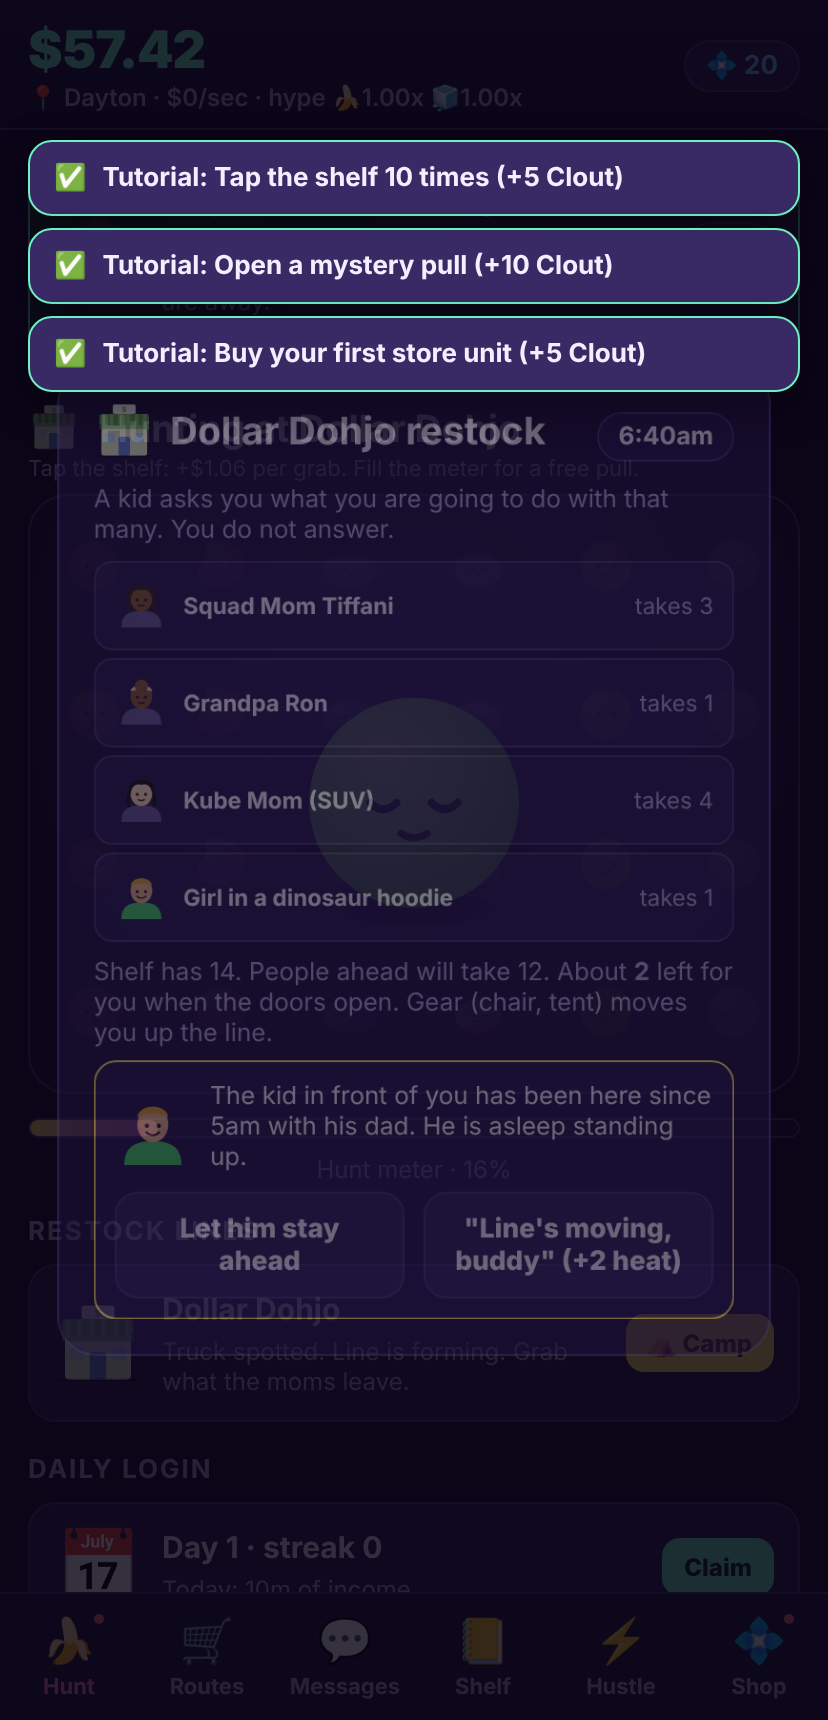
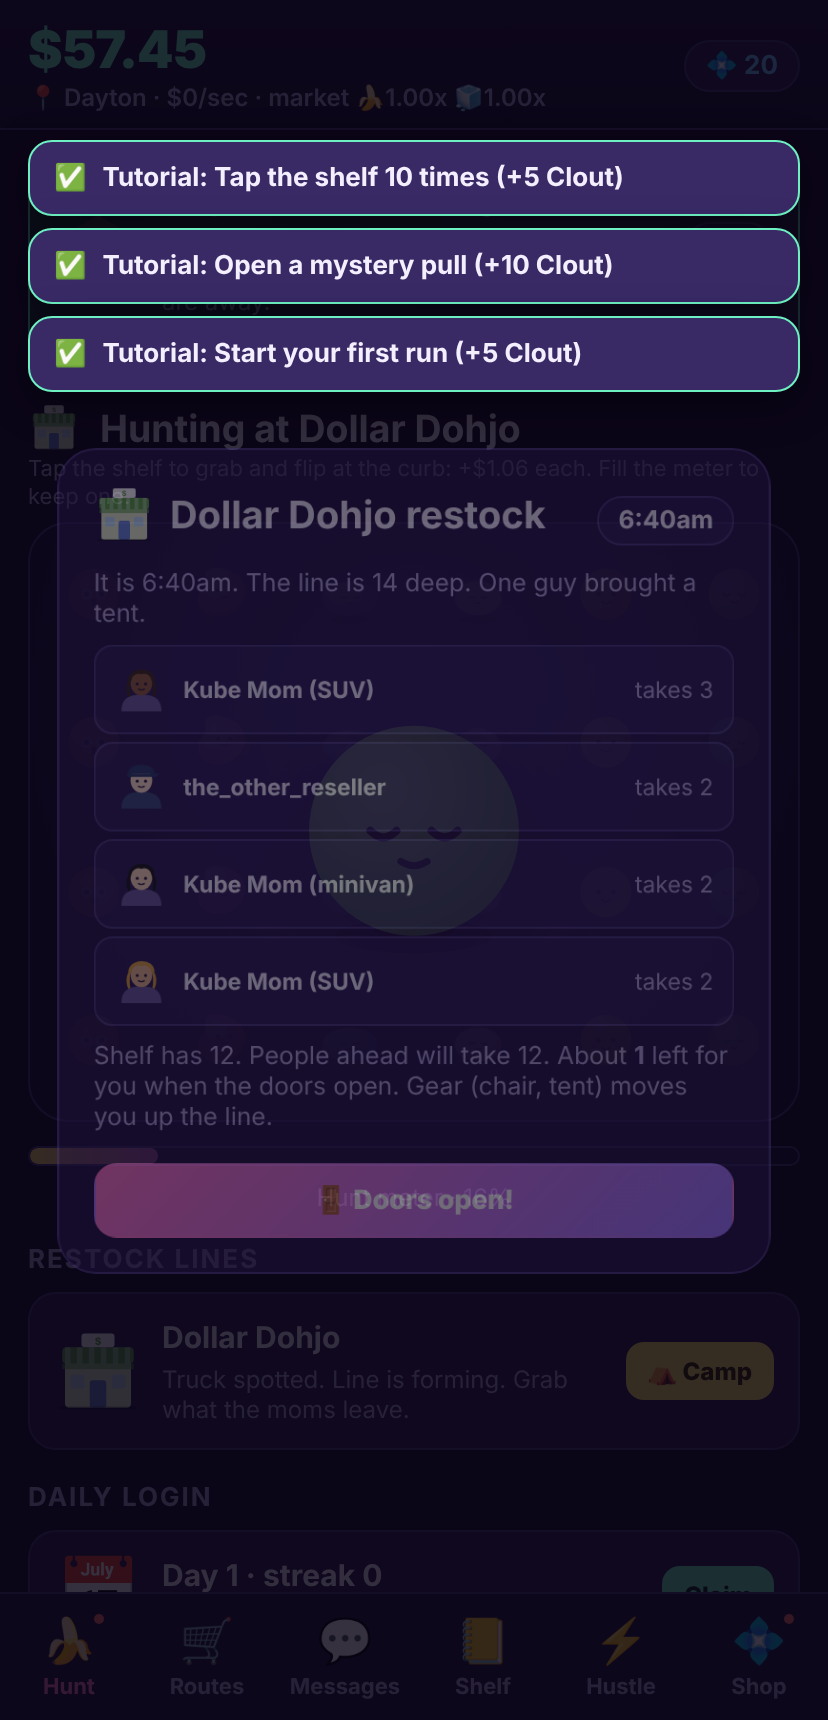
Scalping Squishies: make automatic cash legible (runs, flip math, phases)
Store units are now runs: one buy-and-flip loop. Every Routes card shows
the math behind its income (each run flips N of the store's common item,
buy price, sell price), the progress bar reads buying/listing/selling,
hype is labelled market price, taps are curbside flips, and copy across
tutorial, missions, achievements and the offline modal uses runs and
flips. Engine unchanged.

Claude-Session: https://claude.ai/code/session_01MZnGvyVSyAsA5yFMotXPV8

diff --git a/scalping-squishies/src/ui/StoresTab.tsx b/scalping-squishies/src/ui/StoresTab.tsx
@@ -5,6 +5,22 @@ import { computeModifiers, storeCycleProfit, storeCycleSeconds, storeUnlocked } 
 import { unitCost, maxAffordable, formatCash, formatDuration, milestoneMult, nextMilestone } from '../engine/math';
 import { isBanned } from '../engine/restock';
 import { StoreSprite } from '../art/Portrait';
+import { Sprite } from '../art/Sprite';
+import { itemsForStore } from '../engine/data/items';
+
+/** The fiction behind a run: buy a few of the store's bread-and-butter item, flip them at market. */
+function flipMath(storeId: string, units: number, profitPerCycle: number) {
+  const pool = itemsForStore(storeId);
+  const rep = pool.find((i) => i.rarity === 'common') ?? pool[0];
+  const qty = 2 * milestoneMult(units);
+  const perRun = units > 0 ? profitPerCycle / units : 0;
+  const sale = rep ? rep.retail + perRun / qty : perRun;
+  return { rep, qty, sale, perRun };
+}
+
+function phaseLabel(progress: number): string {
+  return progress < 0.34 ? 'buying' : progress < 0.67 ? 'listing' : 'selling';
+}
 
 const AMOUNTS: BuyAmount[] = [1, 10, 100, 'max'];
 
@@ -20,6 +36,7 @@ export function StoresTab() {
 
   return (
     <div>
+      <div className="card sub" style={{ fontSize: 12 }}>A <b>run</b> is one buy-and-flip loop: camp the store, buy the limit, list it, sell it. Add runs to flip more per trip. Hire a manager and the runs repeat while you are away.</div>
       <div className="seg">
         {AMOUNTS.map((a) => (
           <button key={String(a)} className={buyAmount === a ? 'active' : ''} onClick={() => setBuyAmount(a)}>
@@ -38,6 +55,7 @@ export function StoresTab() {
         const mgr = MANAGER_BY_STORE[st.id];
         const nm = nextMilestone(ss.units);
         const running = ss.progress > 0;
+        const fm = flipMath(st.id, ss.units, profit);
         return (
           <div className={`card ${unlocked ? '' : 'locked'}`} key={st.id}>
             <div className="row">
@@ -46,30 +64,36 @@ export function StoresTab() {
                 style={{ fontSize: 34 }}
                 disabled={ss.units <= 0 || ss.manager || running}
                 onClick={() => startStore(st.id)}
-                title="Run a cycle"
+                title="Send a run"
               >
                 <StoreSprite id={st.id} size={44} />
               </button>
               <div className="grow">
                 <div className="row between">
-                  <h3>{st.name} <span className="small">×{ss.units}</span></h3>
+                  <h3>{st.name} <span className="small">· {ss.units} run{ss.units === 1 ? '' : 's'}</span></h3>
                   {ss.units > 0 && <span className="small">{isBanned(s, st.id, now) ? <b style={{ color: 'var(--red)' }}>🚫 BANNED · </b> : null}x{milestoneMult(ss.units)} · {formatDuration(cycle)}</span>}
                 </div>
                 {ss.units > 0 ? (
                   <>
                     <div className="progress"><i style={{ width: `${Math.min(100, ss.progress * 100)}%` }} /></div>
                     <div className="row between" style={{ marginTop: 4 }}>
-                      <span className="small">{formatCash(profit)} / cycle {ss.manager ? '· auto' : running ? '· running' : '· tap icon to run'}</span>
-                      {nm && <span className="small">next x2 at {nm}</span>}
+                      <span className="small">{formatCash(profit)} per trip {ss.manager ? '· manager repeats it' : running ? `· ${phaseLabel(ss.progress)}` : '· tap the store to send a run'}</span>
+                      {nm && <span className="small">x2 at {nm} runs</span>}
                     </div>
+                    {fm.rep && (
+                      <div className="row small flipmath">
+                        <Sprite id={fm.rep.id} size={18} />
+                        <span>Each run flips {fm.qty} × {fm.rep.name}: buy at ${fm.rep.retail}, sell at {formatCash(fm.sale)} each</span>
+                      </div>
+                    )}
                   </>
                 ) : (
-                  <div className="sub">{unlocked ? st.tagline : `Unlocks at ${st.unlockAtTotalUnits} total units`}</div>
+                  <div className="sub">{unlocked ? st.tagline : `Unlocks at ${st.unlockAtTotalUnits} total runs`}</div>
                 )}
               </div>
               <button className="btn primary" disabled={!canBuy} onClick={() => buyUnits(st.id)}>
                 <span className="btn-col">
-                  <span>Buy {buyAmount === 'max' ? `x${count}` : `x${count}`}</span>
+                  <span>{ss.units > 0 ? 'Add' : 'Start'} {count > 1 ? `${count} runs` : 'run'}</span>
                   <span className="price">{formatCash(cost)}</span>
                 </span>
               </button>

diff --git a/scalping-squishies/src/engine/data/missions.ts b/scalping-squishies/src/engine/data/missions.ts
@@ -5,15 +5,15 @@ import type { MissionDef } from '../types';
 export const MISSION_POOL: MissionDef[] = [
   { id: 'q_tap50', name: 'Shelf Sweep', blurb: 'Tap the shelf 50 times.', target: 50, counter: 'taps', rewardClout: 3, rewardPassXp: 40 },
   { id: 'q_tap200', name: 'Aisle Marathon', blurb: 'Tap the shelf 200 times.', target: 200, counter: 'taps', rewardClout: 6, rewardPassXp: 80 },
-  { id: 'q_units10', name: 'Expand the Route', blurb: 'Buy 10 store units.', target: 10, counter: 'unitsBought', rewardClout: 3, rewardPassXp: 40 },
-  { id: 'q_units50', name: 'Buy Out the Block', blurb: 'Buy 50 store units.', target: 50, counter: 'unitsBought', rewardClout: 6, rewardPassXp: 80 },
+  { id: 'q_units10', name: 'Expand the Route', blurb: 'Add 10 runs.', target: 10, counter: 'unitsBought', rewardClout: 3, rewardPassXp: 40 },
+  { id: 'q_units50', name: 'Buy Out the Block', blurb: 'Add 50 runs.', target: 50, counter: 'unitsBought', rewardClout: 6, rewardPassXp: 80 },
   { id: 'q_pull3', name: 'Blind Bag Trio', blurb: 'Open 3 mystery pulls.', target: 3, counter: 'pulls', rewardClout: 4, rewardPassXp: 60 },
   { id: 'q_pull10', name: 'Rip Session', blurb: 'Open 10 mystery pulls.', target: 10, counter: 'pulls', rewardClout: 8, rewardPassXp: 120 },
   { id: 'q_ads2', name: 'Sponsored Hustle', blurb: 'Watch 2 boost videos.', target: 2, counter: 'adsWatched', rewardClout: 5, rewardPassXp: 60 },
-  { id: 'q_sales100', name: 'Hundred Sales', blurb: 'Complete 100 store cycles.', target: 100, counter: 'sales', rewardClout: 4, rewardPassXp: 60 },
+  { id: 'q_sales100', name: 'Hundred Sales', blurb: 'Complete 100 flips.', target: 100, counter: 'sales', rewardClout: 4, rewardPassXp: 60 },
   { id: 'q_deals5', name: 'Close the Deal', blurb: 'Accept 5 offers in the Deals feed.', target: 5, counter: 'deals', rewardClout: 4, rewardPassXp: 60 },
   { id: 'q_deals15', name: 'Marketplace Grind', blurb: 'Accept 15 offers in the Deals feed.', target: 15, counter: 'deals', rewardClout: 8, rewardPassXp: 120 },
   { id: 'q_restock1', name: 'Early Bird', blurb: 'Complete a restock run.', target: 1, counter: 'restocks', rewardClout: 4, rewardPassXp: 60 },
   { id: 'q_restock3', name: 'Tent Life', blurb: 'Complete 3 restock runs.', target: 3, counter: 'restocks', rewardClout: 8, rewardPassXp: 120 },
-  { id: 'q_sales500', name: 'Volume Seller', blurb: 'Complete 500 store cycles.', target: 500, counter: 'sales', rewardClout: 8, rewardPassXp: 120 },
+  { id: 'q_sales500', name: 'Volume Seller', blurb: 'Complete 500 flips.', target: 500, counter: 'sales', rewardClout: 8, rewardPassXp: 120 },
 ];

diff --git a/scalping-squishies/src/engine/data/achievements.ts b/scalping-squishies/src/engine/data/achievements.ts
@@ -14,10 +14,10 @@ export const ACHIEVEMENTS: AchievementDef[] = [
   { id: 'a_1t', name: 'Economy Ruiner', blurb: 'Earn $1 trillion.', icon: '🌍', clout: 60, check: (s) => s.stats.totalCashEarned >= 1e12 },
   { id: 'a_tap100', name: 'Thumb Blister', blurb: 'Tap the shelf 100 times.', icon: '👆', clout: 5, check: (s) => s.stats.taps >= 100 },
   { id: 'a_tap2k', name: 'Carpal Tunnel Speedrun', blurb: 'Tap the shelf 2,000 times.', icon: '🫲', clout: 15, check: (s) => s.stats.taps >= 2_000 },
-  { id: 'a_units25', name: 'Regular', blurb: 'Own 25 total store units.', icon: '🛒', clout: 5, check: (s) => totalUnits(s) >= 25 },
-  { id: 'a_units200', name: 'Known By Staff', blurb: 'Own 200 total store units.', icon: '🪪', clout: 15, check: (s) => totalUnits(s) >= 200 },
-  { id: 'a_units1000', name: 'Banned From The Parking Lot', blurb: 'Own 1,000 total store units.', icon: '🚔', clout: 40, check: (s) => totalUnits(s) >= 1_000 },
-  { id: 'a_allstores', name: 'Full Route', blurb: 'Own at least one unit of every store.', icon: '🗺', clout: 25, check: (s) => STORES.every((st) => (s.stores[st.id]?.units ?? 0) > 0) },
+  { id: 'a_units25', name: 'Regular', blurb: 'Have 25 runs going across your routes.', icon: '🛒', clout: 5, check: (s) => totalUnits(s) >= 25 },
+  { id: 'a_units200', name: 'Known By Staff', blurb: 'Have 200 runs going across your routes.', icon: '🪪', clout: 15, check: (s) => totalUnits(s) >= 200 },
+  { id: 'a_units1000', name: 'Banned From The Parking Lot', blurb: 'Have 1,000 runs going. The parking lot knows your car.', icon: '🚔', clout: 40, check: (s) => totalUnits(s) >= 1_000 },
+  { id: 'a_allstores', name: 'Full Route', blurb: 'Have a run going at every store.', icon: '🗺', clout: 25, check: (s) => STORES.every((st) => (s.stores[st.id]?.units ?? 0) > 0) },
   { id: 'a_managers', name: 'Delegator', blurb: 'Hire every manager.', icon: '👔', clout: 30, check: (s) => STORES.every((st) => s.stores[st.id]?.manager) },
   { id: 'a_pull10', name: 'Blind Bag Addict', blurb: 'Open 10 mystery pulls.', icon: '🎁', clout: 5, check: (s) => s.stats.pulls >= 10 },
   { id: 'a_pull100', name: 'Gambling, But Cute', blurb: 'Open 100 mystery pulls.', icon: '🎰', clout: 20, check: (s) => s.stats.pulls >= 100 },

diff --git a/scalping-squishies/src/engine/data/tutorial.ts b/scalping-squishies/src/engine/data/tutorial.ts
@@ -13,8 +13,8 @@ export interface TutorialStep {
 // themselves from state so the player never has to "confirm" anything.
 export const TUTORIAL: TutorialStep[] = [
   { id: 't_tap', text: 'Tap the shelf 10 times', hint: 'Hunt tab. Every tap is cash. Sixty taps fills the meter for a free pull.', clout: 5, tab: 'hunt', check: (s) => s.stats.taps >= 10 },
-  { id: 't_unit', text: 'Buy your first store unit', hint: 'Routes tab. Dollar Dohjo costs $4. Tap its icon to run a cycle.', clout: 5, tab: 'stores', check: (s) => s.stats.unitsBought >= 1 },
-  { id: 't_manager', text: 'Hire a manager', hint: 'Routes tab. Cousin Dwayne automates Dollar Dohjo for $100 and earns while you are away.', clout: 10, tab: 'stores', check: (s) => Object.values(s.stores).some((st) => st.manager) },
+  { id: 't_unit', text: 'Start your first run', hint: 'Routes tab. A Dollar Dohjo run costs $4: buy the limit, flip it. Tap the store to send the run.', clout: 5, tab: 'stores', check: (s) => s.stats.unitsBought >= 1 },
+  { id: 't_manager', text: 'Hire a manager', hint: 'Routes tab. Cousin Dwayne repeats your Dollar Dohjo runs for $100, even while you are away.', clout: 10, tab: 'stores', check: (s) => Object.values(s.stores).some((st) => st.manager) },
   { id: 't_restock', text: 'Camp a restock', hint: 'Hunt tab. Stand in line, then mash GRAB when the doors open. Watch out for moms.', clout: 10, tab: 'hunt', check: (s) => s.stats.restocks >= 1 },
   { id: 't_deal', text: 'Answer a Marketplace message', hint: 'Messages tab (💬). Buyers message you about items on your shelf. Accept, counter or decline. "Hi dear" is a scam.', clout: 10, tab: 'deals', check: (s) => s.stats.offersAccepted + s.stats.offersDeclined >= 1 },
   { id: 't_upgrade', text: 'Buy an upgrade', hint: 'Hustle tab. Faster Thumbs is $500 and doubles your tap.', clout: 10, tab: 'boost', check: (s) => s.upgrades.some((u) => u.startsWith('u_')) },

diff --git a/scalping-squishies/src/ui/HuntTab.tsx b/scalping-squishies/src/ui/HuntTab.tsx
@@ -47,7 +47,7 @@ export function HuntTab() {
       if (s.settings.haptics) haptic.light();
       const rect = e.currentTarget.getBoundingClientRect();
       const id = Date.now() + Math.random();
-      setFloats((f) => [...f.slice(-12), { id, x: e.clientX - rect.left, y: e.clientY - rect.top, text: '+' + formatCash(tv) }]);
+      setFloats((f) => [...f.slice(-12), { id, x: e.clientX - rect.left, y: e.clientY - rect.top, text: '+' + formatCash(tv) + ' flipped' }]);
       setTimeout(() => setFloats((f) => f.filter((x) => x.id !== id)), 900);
     },
     [tap, tv, s.settings.haptics],
@@ -81,7 +81,7 @@ export function HuntTab() {
       <div className="row between">
         <div>
           <h3 style={{ margin: 0 }} className="row"><StoreSprite id={hunting.id} size={26} /> Hunting at {hunting.name}</h3>
-          <div className="small">Tap the shelf: +{formatCash(tv)} per grab. Fill the meter for a free pull.</div>
+          <div className="small">Tap the shelf to grab and flip at the curb: +{formatCash(tv)} each. Fill the meter to keep one.</div>
         </div>
       </div>
       <div className="shelf" onPointerDown={onTap}>
@@ -97,7 +97,7 @@ export function HuntTab() {
       <div className="hint">Hunt meter · {Math.floor(huntMeter * 100)}%</div>
 
       <h2 className="sec">Restock lines</h2>
-      {STORES.filter((st) => (s.stores[st.id]?.units ?? 0) > 0).length === 0 && <div className="card center sub">Buy a store unit on the Routes tab to start camping its restocks.</div>}
+      {STORES.filter((st) => (s.stores[st.id]?.units ?? 0) > 0).length === 0 && <div className="card center sub">Start a run at a store on the Routes tab to camp its restocks.</div>}
       {STORES.filter((st) => (s.stores[st.id]?.units ?? 0) > 0).map((st) => {
         const ready = restockReady(s, st.id, now);
         const banned = isBanned(s, st.id, now);

diff --git a/scalping-squishies/src/ui/Header.tsx b/scalping-squishies/src/ui/Header.tsx
@@ -19,7 +19,7 @@ export function Header() {
       <div className="wallet">
         <div className="grow">
           <div className="cash">{formatCash(s.cash, s.settings.notation)}</div>
-          <div className="ips">📍 {CITY_BY_ID[s.city]?.name.split(',')[0] ?? 'Dayton'} · {formatCash(ips, s.settings.notation)}/sec · hype 🍌{hypeS.toFixed(2)}x 🧊{hypeD.toFixed(2)}x</div>
+          <div className="ips">📍 {CITY_BY_ID[s.city]?.name.split(',')[0] ?? 'Dayton'} · {formatCash(ips, s.settings.notation)}/sec · market 🍌{hypeS.toFixed(2)}x 🧊{hypeD.toFixed(2)}x</div>
         </div>
         <span className="pill clout">💠 {formatNumber(s.clout)}</span>
         {s.cred > 0 && <span className="pill cred">⭐ {formatNumber(s.cred)}</span>}

diff --git a/scalping-squishies/src/ui/Overlays.tsx b/scalping-squishies/src/ui/Overlays.tsx
@@ -25,7 +25,7 @@ export function Overlays() {
         <div className="overlay">
           <div className="modal center">
             <h2>Welcome back, hustler</h2>
-            <p>Your managers kept flipping for {formatDuration(s.pendingOffline.seconds)}.</p>
+            <p>Your managers kept running the routes for {formatDuration(s.pendingOffline.seconds)}: buy the limit, list it, sell it, repeat.</p>
             <div className="big">{formatCash(s.pendingOffline.cash, s.settings.notation)}</div>
             <div className="actions">
               <button className="btn" onClick={claimOfflineNormal}>Collect</button>

diff --git a/scalping-squishies/src/ui/BoostTab.tsx b/scalping-squishies/src/ui/BoostTab.tsx
@@ -82,7 +82,7 @@ export function BoostTab() {
                 <h3>{u.name}</h3>
                 <div className="sub">
                   {u.blurb}
-                  {u.requires && ` · needs ${u.requires.units} ${STORE_BY_ID[u.requires.storeId].name}`}
+                  {u.requires && ` · needs ${u.requires.units} ${STORE_BY_ID[u.requires.storeId].name} runs`}
                   {u.heat && <span style={{ color: 'var(--red)' }}> · 🔥 +{u.heat} heat</span>}
                 </div>
               </div>

diff --git a/scalping-squishies/src/styles.css b/scalping-squishies/src/styles.css
@@ -189,4 +189,5 @@ body.shake .app { animation: shake 0.5s; }
 .rank.beaten { opacity: 1; }
 .rank.beaten b { color: var(--mint); }
 input.handle { flex: 1; background: var(--bg); color: var(--text); border: 1px solid var(--line); border-radius: 8px; padding: 8px 10px; font: inherit; font-size: 13px; }
+.flipmath { gap: 6px; margin-top: 4px; color: var(--muted); align-items: center; }
 .debug { font-size: 11px; color: var(--muted); margin-top: 20px; }

diff --git a/scalping-squishies/docs/game-design.md b/scalping-squishies/docs/game-design.md
@@ -183,6 +183,19 @@ to 30%, a 6-hour perfect run splits 51% stores, 29% deals, 16% restocks,
 human plays slower, so real numbers land later. The randomized browser
 soak (`npm run soak`) runs 150 seconds of random actions with no errors.
 
+## The fiction of automatic cash
+
+Idle income is an abstraction, so the game names it. A store "unit" is a
+**run**: one buy-and-flip loop (camp the store, buy the limit, list it,
+sell it). Adding runs flips more per trip; milestones double the quantity
+per run; a manager repeats the runs while you are away. Every Routes card
+shows the math behind its number ("each run flips 4 × Nice Kube: buy at
+$6, sell at $41 each") and its progress bar reads buying → listing →
+selling. Hype is labelled market price. Taps are curbside flips. The
+engine is unchanged; only the presentation makes the money legible. A
+real inventory economy (cash only on sale, stock you can be stuck with)
+is parked as a possible mid-life "Warehouse" mode.
+
 ## Economy tuning
 
 Store table (cost x16 per store, profit/cost ratio falls 38% per store,
